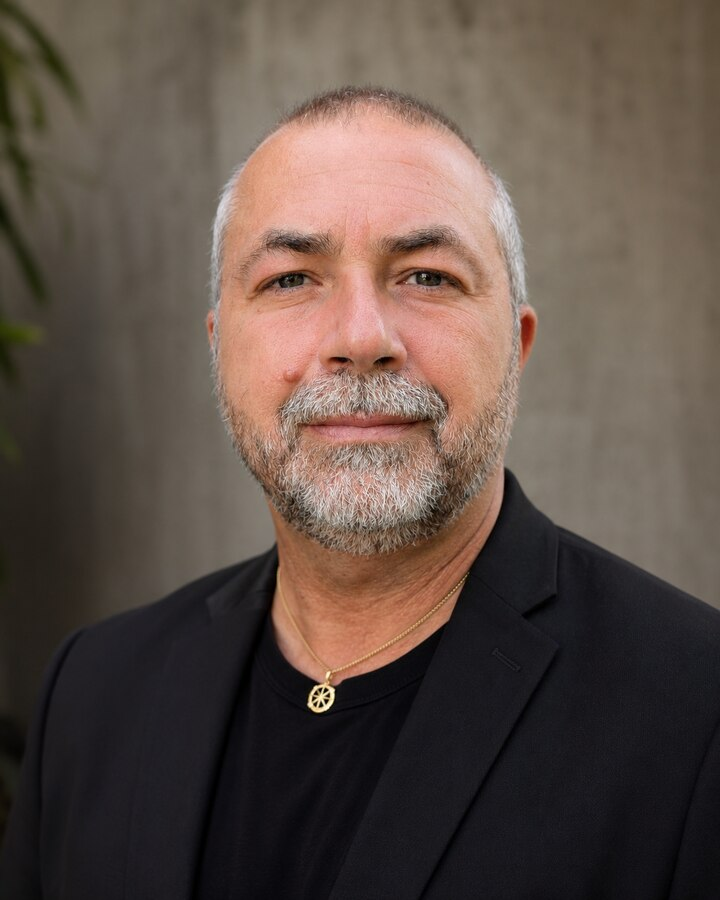
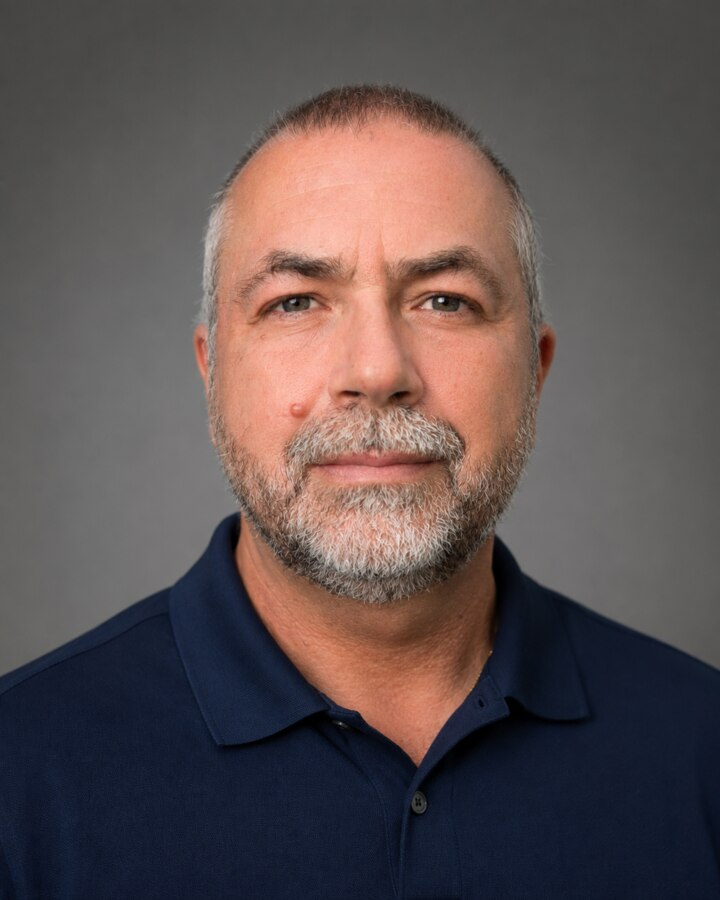
Correct founder photo and add LinkedIn profile

diff --git a/docs/team.html b/docs/team.html
@@ -41,7 +41,10 @@
     "about": {
       "@type": "Person",
       "name": "Michele Scalini",
-      "url": "https://michelescalini.it"
+      "url": "https://michelescalini.it",
+      "sameAs": [
+        "https://www.linkedin.com/in/michele-scalini-2bbb93b1/"
+      ]
     }
   }
   </script>
@@ -615,6 +618,9 @@
           <div class="references" aria-label="Michele Scalini public references">
             <a class="reference" href="https://michelescalini.it" target="_blank" rel="noopener">
               Personal website ↗
+            </a>
+            <a class="reference" href="https://www.linkedin.com/in/michele-scalini-2bbb93b1/" target="_blank" rel="noopener">
+              LinkedIn ↗
             </a>
             <a class="reference" href="mailto:contact@landingcoin.fun">
               Project contact
